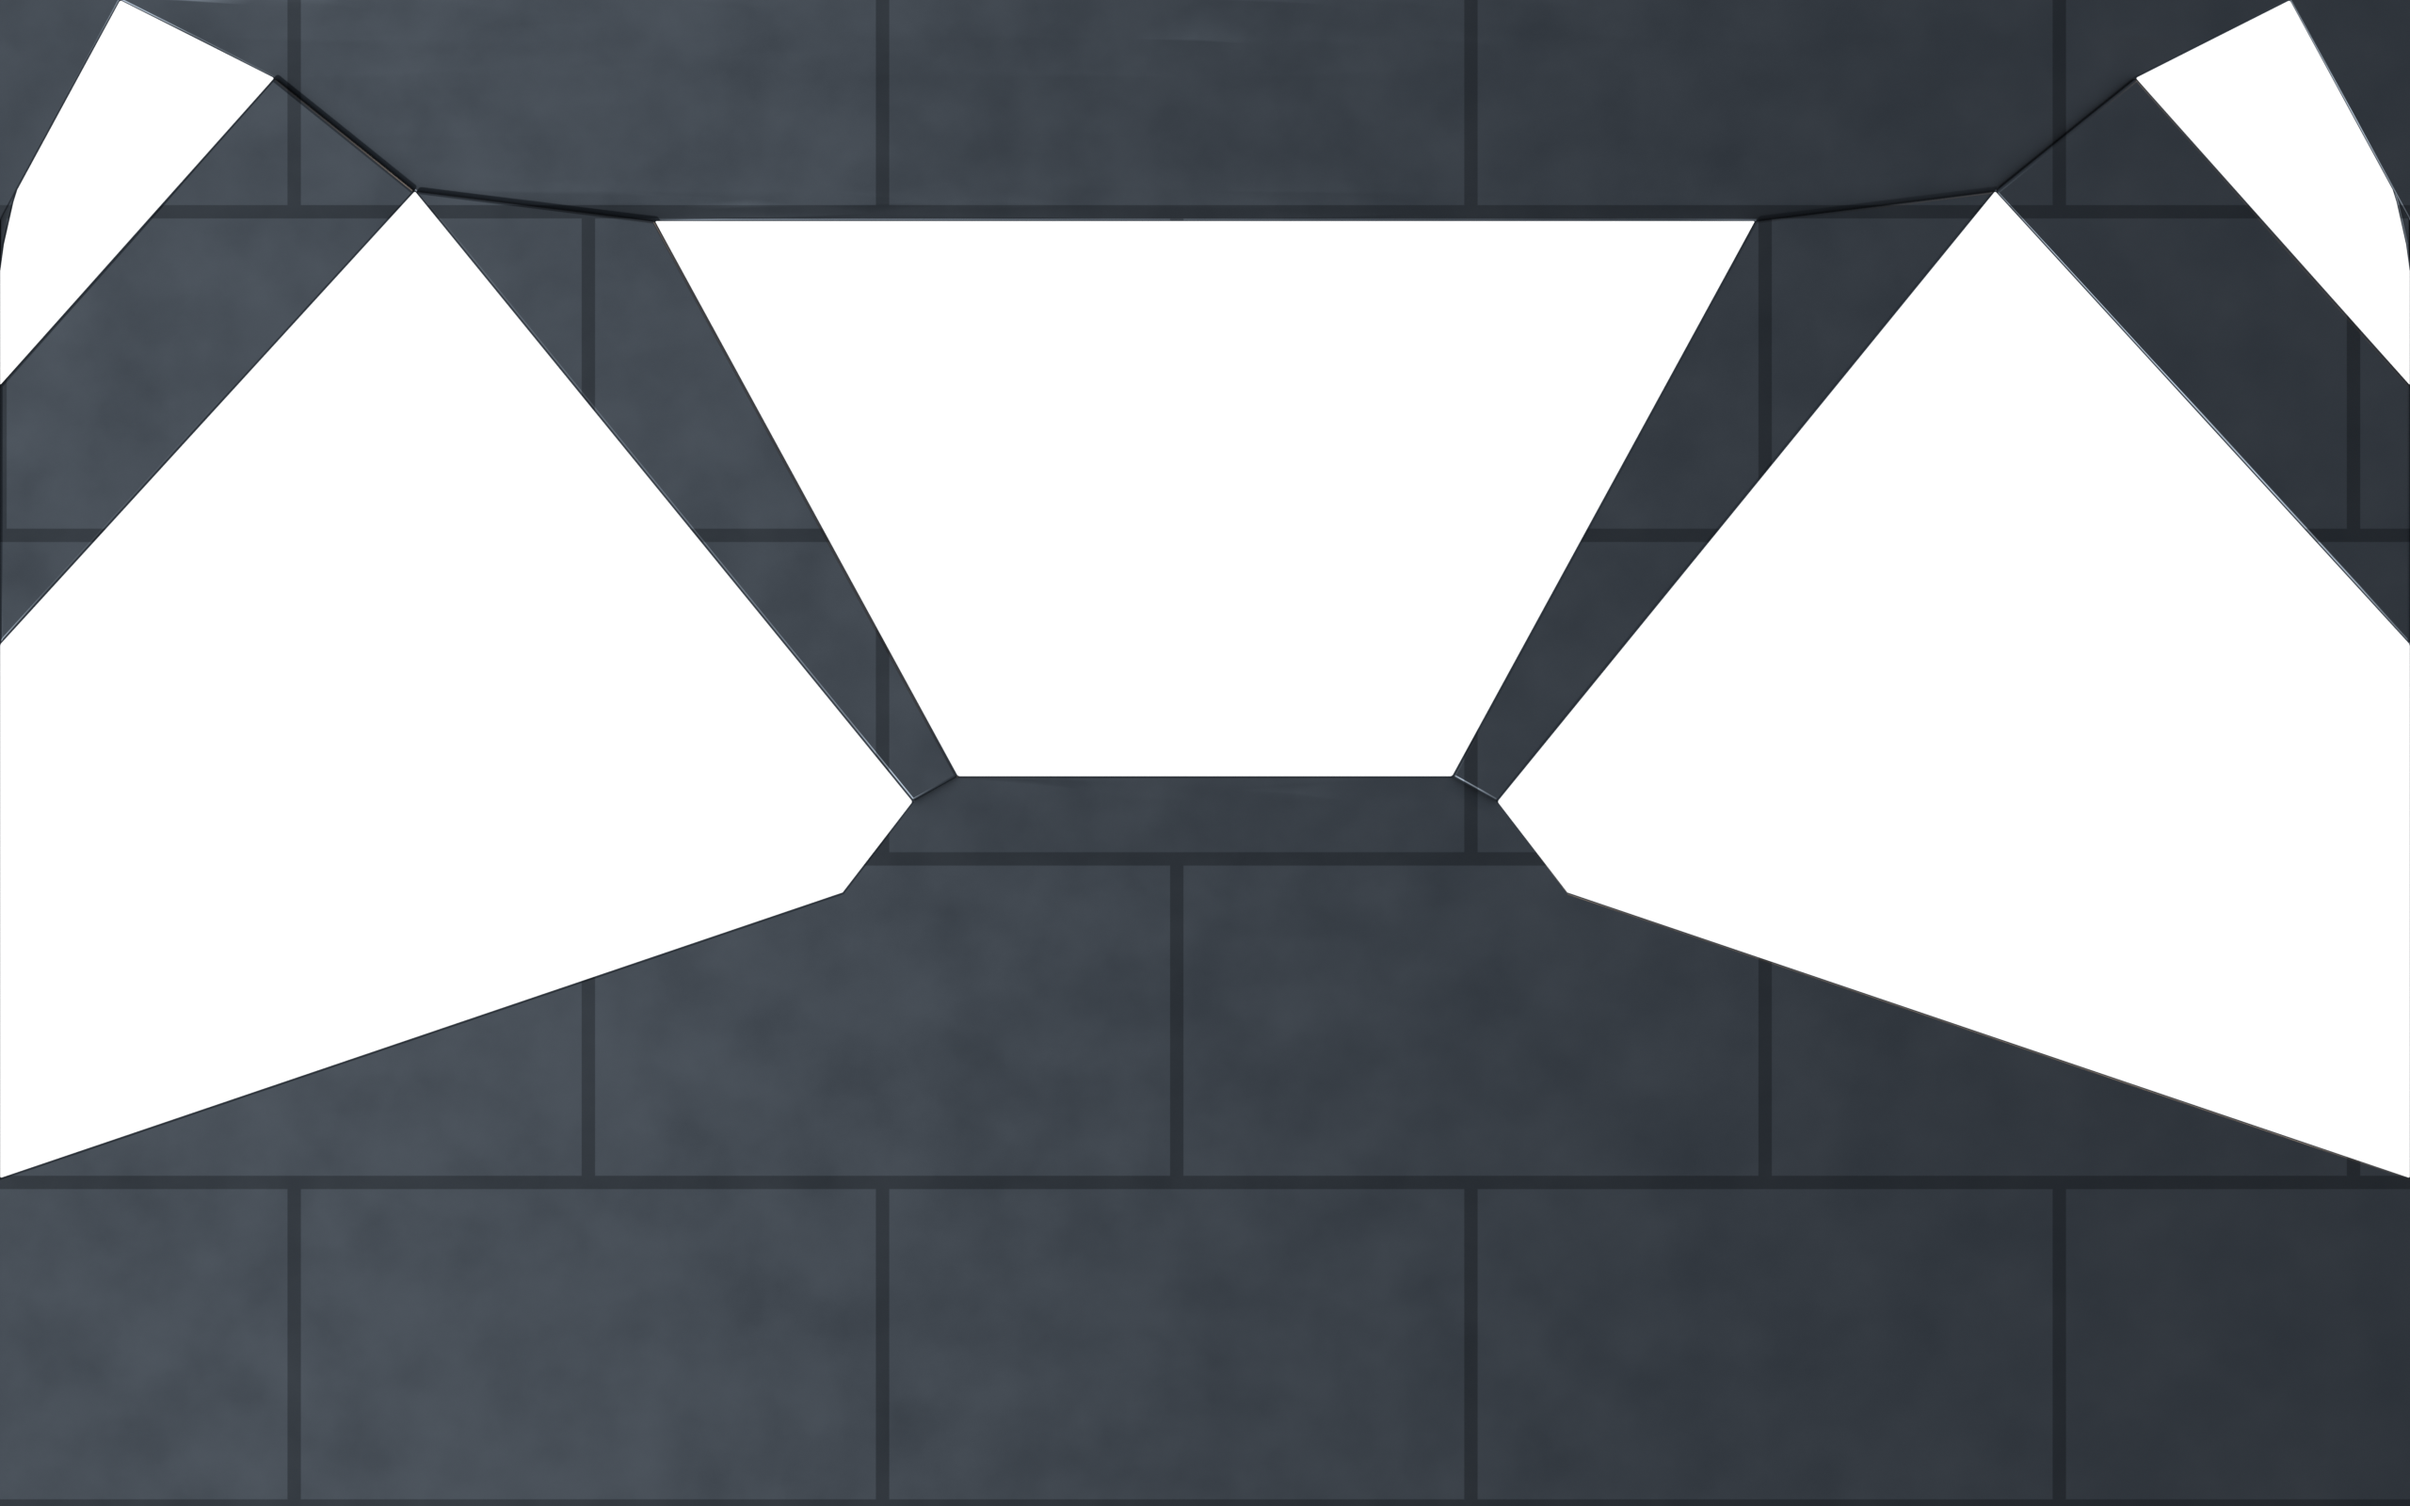
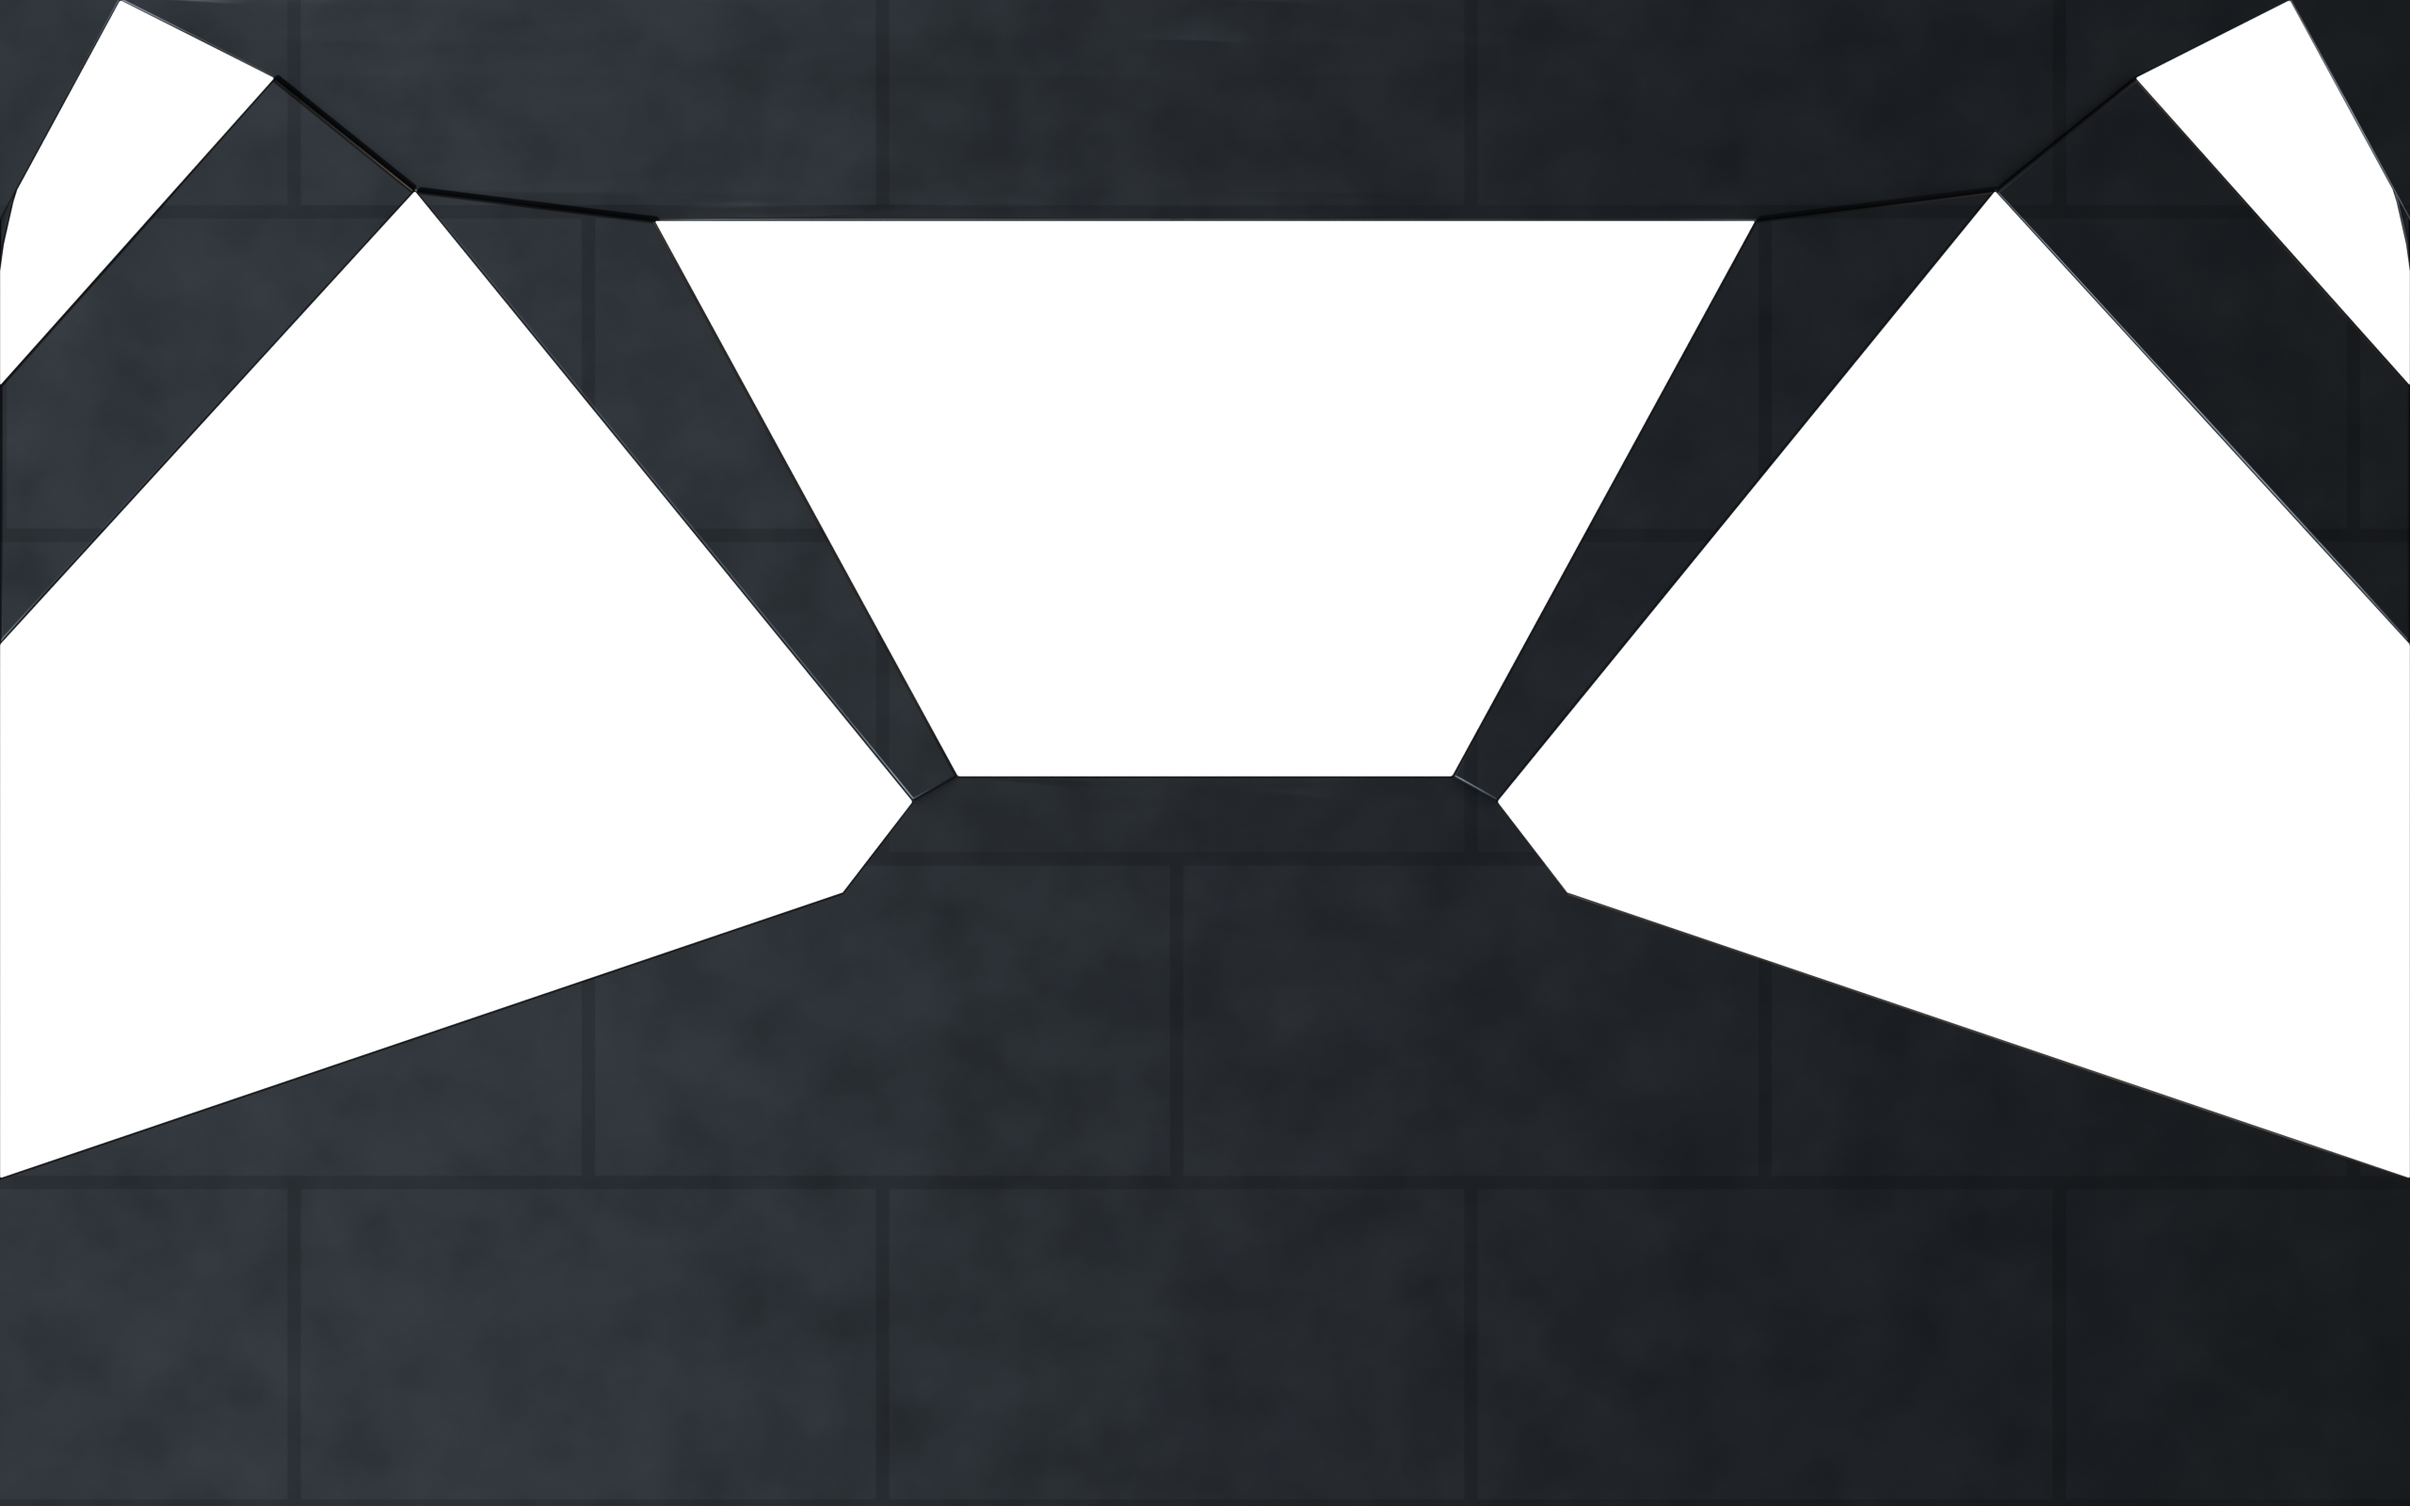
polish(ui): darker rendered hull, softer light tints (H3b tuning)
Goal: first side-by-side showed the hull too bright and the tints too hot.
Scope: world/key strength in cockpit_scene.py, re-rendered hull+corners, tint opacities in FrameLayers.
Non-goals: default stays HullRender=0. Validation: test_render_frame ok (IoU 0.998), tsc, e2e frame.spec 10 pass.
Rollback: git revert this commit.

diff --git a/SpaceshipApp/SpaceshipUI/src/ui/FrameLayers.tsx b/SpaceshipApp/SpaceshipUI/src/ui/FrameLayers.tsx
@@ -57,10 +57,10 @@ export function FrameLayers({ style, values }: { style: FrameStyle; values: Reco
         spill={lit ? '' : spillBackground(accent, tier, hiddenZones(values))}
         orb={!lit && tier === 0 && values.StateLight !== '0' && !hiddenZones(values).split(',').includes('C_sphere')} />}
       {lit && <>
-        {tint('light_screens', 0.9 * hull, 'luminance', accent, screen)}
-        {tint('light_trim', hull * 0.8, 'luminance', accent, screen)}
+        {tint('light_screens', 0.5 * hull, 'luminance', accent, screen)}
+        {tint('light_trim', hull * 0.45, 'luminance', accent, screen)}
         <OrbPass tint={tint} values={values} accent={accent} hull={hull} />
-        {tint('glass_reflect', 0.25, 'luminance', 'rgb(235 245 255)', screen)}
+        {tint('glass_reflect', 0.2, 'luminance', 'rgb(235 245 255)', screen)}
       </>}
       {!pic && tier < 2 && !lit && <TrimSpill vars={vars} mask={url('window_mask')} hull={hull} />}
       {!pic && n(values, 'PerfTier', 0) < 2 && <Grain mask={url('window_mask')} hull={hull} />}
@@ -148,7 +148,7 @@ function OrbPass({ tint, values, accent, hull }: { tint: (name: string, a: numbe
   const key = st === 'listening' ? 'JarvisColorListen' : st === 'speaking' ? 'JarvisColorSpeak' : 'JarvisColorIdle';
   const c = String(values[key] ?? '').trim();
   const bg = c ? `rgb(${c.split(',').slice(0, 3).map((x) => Math.min(255, Math.max(0, Number(x) || 0))).join(',')})` : accent;
-  return tint('light_orb', (st === 'listening' || st === 'speaking' ? 0.9 : 0.35) * hull, 'luminance', bg, { mixBlendMode: 'screen' });
+  return tint('light_orb', (st === 'listening' || st === 'speaking' ? 0.6 : 0.25) * hull, 'luminance', bg, { mixBlendMode: 'screen' });
 }
 
 /** The hull: everything except the glass (a full layer minus the window mask, white = glass). */

diff --git a/tools/blender/cockpit_scene.py b/tools/blender/cockpit_scene.py
@@ -123,7 +123,7 @@ def principled(name, base, metal, rough, noise=False, seams=False, ao=True):
         br.inputs["Row Height"].default_value = 0.55
         br.inputs["Color1"].default_value = (1, 1, 1, 1)
         br.inputs["Color2"].default_value = (0.93, 0.93, 0.93, 1)
-        br.inputs["Mortar"].default_value = (0.55, 0.55, 0.55, 1)
+        br.inputs["Mortar"].default_value = (0.75, 0.75, 0.75, 1)
         tc = n.new("ShaderNodeTexCoord")
         m.node_tree.links.new(tc.outputs["Object"], br.inputs["Vector"])
         last = mul(last, br.outputs["Color"])
@@ -214,8 +214,8 @@ E_ORB.append(orb)
 # ---- keys, camera, world
 sun_key = bpy.data.objects.new("key", bpy.data.lights.new("key", "SUN"))
 sun_rim = bpy.data.objects.new("rim", bpy.data.lights.new("rim", "SUN"))
-for s, rot, col, e in ((sun_key, (math.radians(38), 0, math.radians(-35)), (0.85, 0.93, 1.0), 4.0),
-                       (sun_rim, (math.radians(62), 0, math.radians(140)), (1.0, 0.72, 0.5), 0.9)):
+for s, rot, col, e in ((sun_key, (math.radians(38), 0, math.radians(-35)), (0.85, 0.93, 1.0), 2.4),
+                       (sun_rim, (math.radians(62), 0, math.radians(140)), (1.0, 0.72, 0.5), 0.6)):
     bpy.context.collection.objects.link(s)
     s.rotation_euler = rot
     s.data.color, s.data.energy, s.data.angle = col, e, math.radians(2.5)
@@ -280,8 +280,8 @@ def render(name, objs, color_mode, transparent, world_v, exposure=0.0, neutral_h
 
 base = [hull, *struts, *bez_hull]
 passes = {
-    "hull": lambda: render("hull", base + [sun_key, sun_rim], "RGBA", True, 1.0),
-    "corners": lambda: render("corners", [*bez_corner, sun_key, sun_rim], "RGBA", True, 1.0),
+    "hull": lambda: render("hull", base + [sun_key, sun_rim], "RGBA", True, 0.22),
+    "corners": lambda: render("corners", [*bez_corner, sun_key, sun_rim], "RGBA", True, 0.22),
     "light_screens": lambda: render("light_screens", base + E_SCREENS, "BW", False, 0, neutral_hull=True),
     "light_trim": lambda: render("light_trim", base + E_TRIM, "BW", False, 0, neutral_hull=True),
     "light_orb": lambda: render("light_orb", base + E_ORB, "BW", False, 0, neutral_hull=True),
